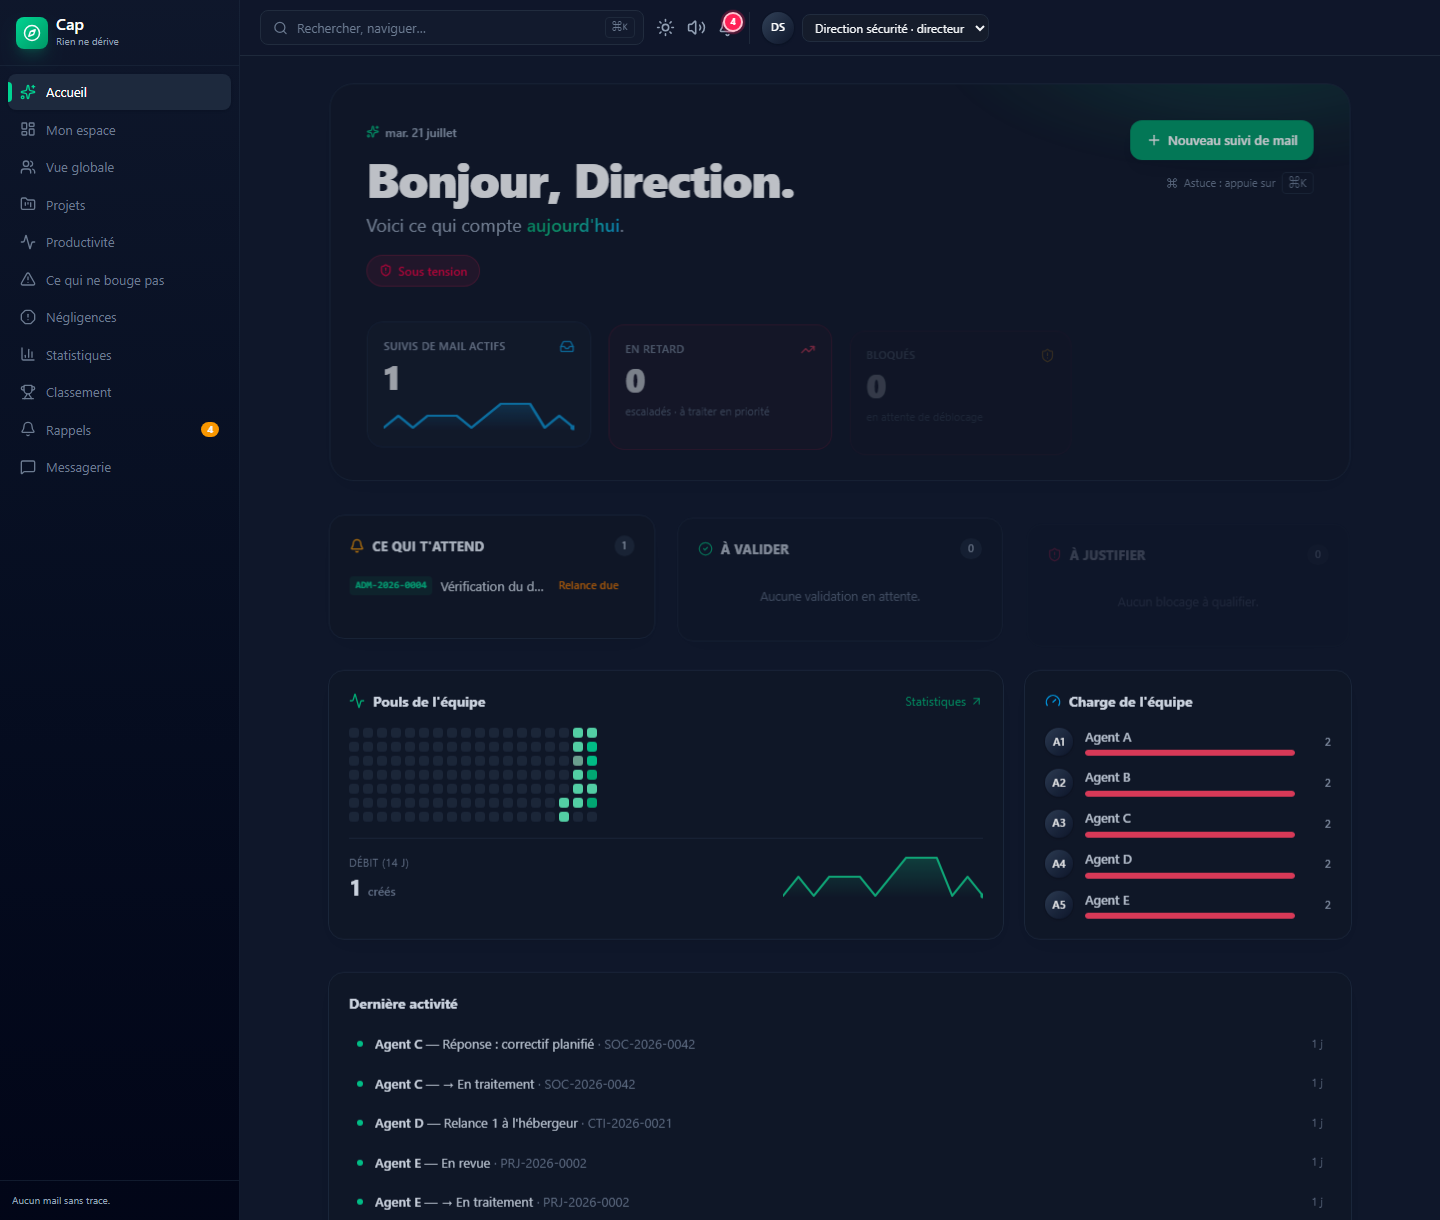
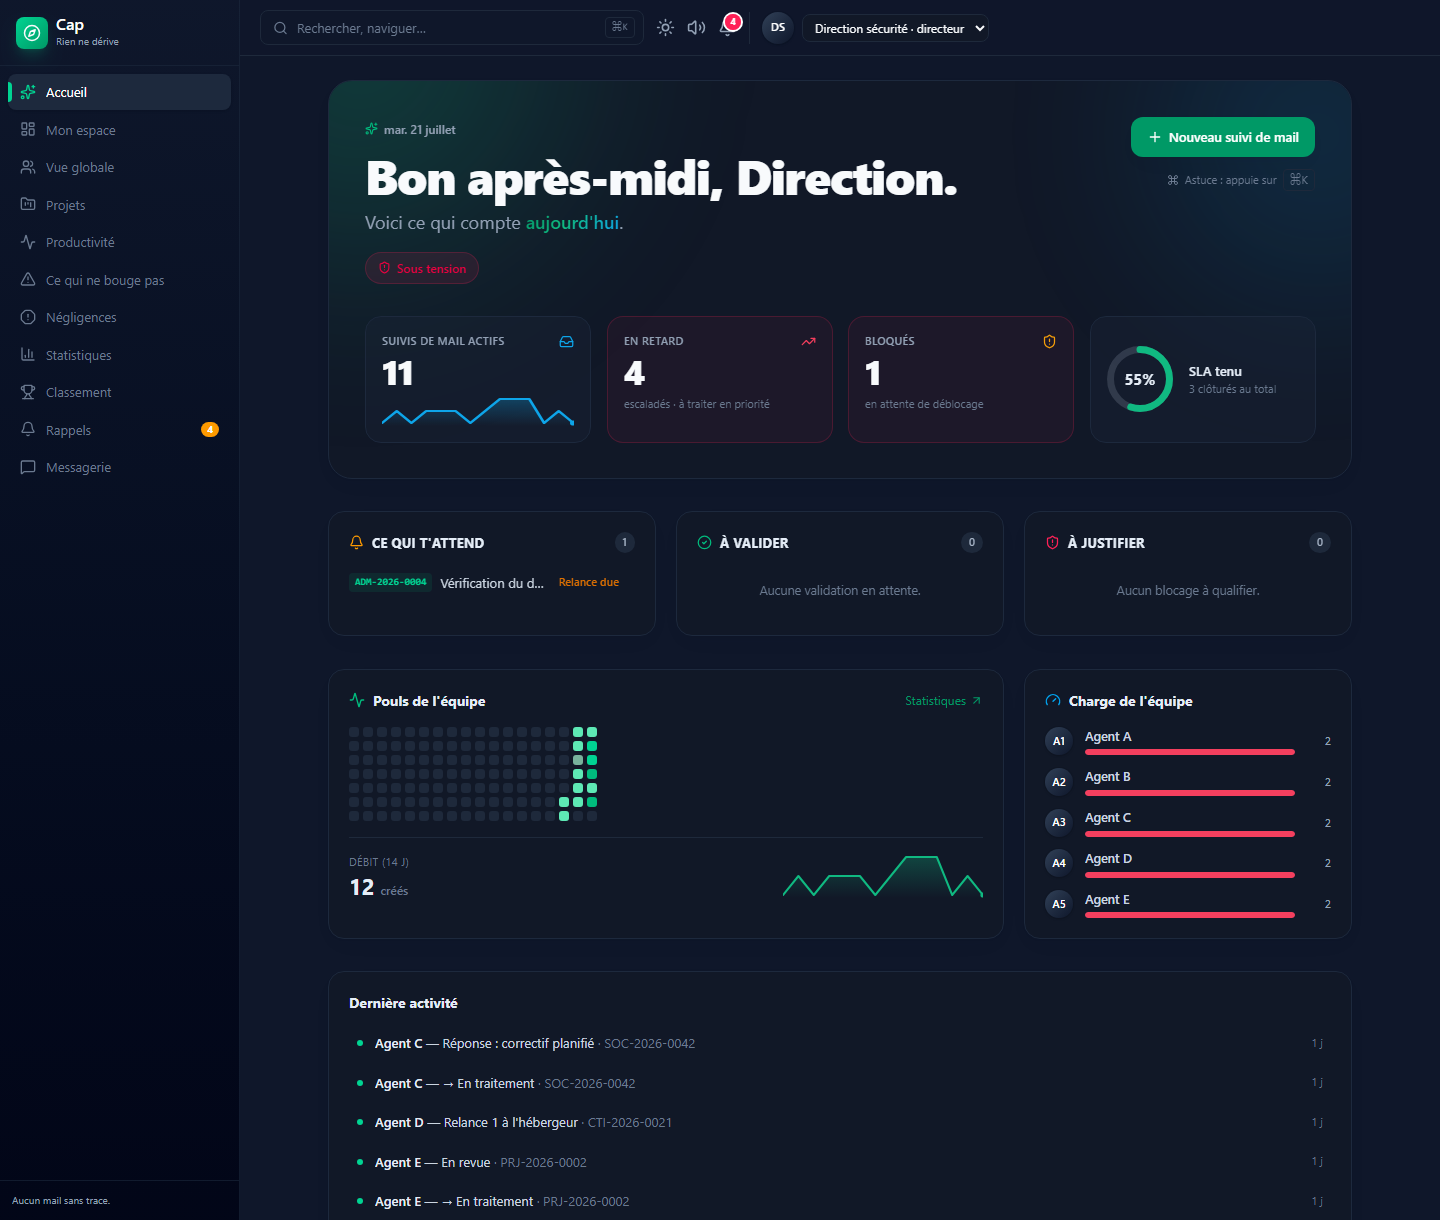
feat(design): Cockpit = accueil par défaut + cran spectaculaire (aurore, salutation)
- Cockpit devient la page d'accueil (connexion, racine, après approbation /
  changement de mot de passe). Le DSI est redirigé vers sa 1re vue autorisée.
- Aurore animée derrière les héros (Cockpit + Mon espace) : dégradés
  emerald/bleu en mouvement lent, plus vivant, respectant prefers-reduced-motion.
- Salutation adaptée à l'heure (Bonjour / Bon après-midi / Bonsoir / Bonne nuit).
- KPIs du Cockpit avec lévitation au survol.

diff --git a/app/(app)/cockpit/page.tsx b/app/(app)/cockpit/page.tsx
@@ -16,7 +16,7 @@ import {
   Sun,
   TrendingUp,
 } from "lucide-react";
-import { fmtLong, isProjectArchived } from "@/lib/domain";
+import { fmtLong, greeting, isProjectArchived } from "@/lib/domain";
 import { useApp } from "@/components/app-context";
 import { Avatar } from "@/components/atoms";
 import { CountUp, Sparkline, Ring, Heatmap } from "@/components/dataviz";
@@ -102,7 +102,8 @@ export default function CockpitPage() {
   return (
     <div className="space-y-8 pb-10">
       {/* ===== Hero / Briefing ===== */}
-      <section className="relative overflow-hidden rounded-3xl border border-slate-200/70 dark:border-slate-800 bg-white dark:bg-slate-900 shadow-soft halo animate-float">
+      <section className="relative overflow-hidden rounded-3xl border border-slate-200/70 dark:border-slate-800 bg-white dark:bg-slate-900 shadow-soft animate-float">
+        <div className="aurora" aria-hidden />
         <div className="relative z-[1] p-7 md:p-9">
           <div className="flex items-start justify-between gap-4 flex-wrap">
             <div>
@@ -110,7 +111,7 @@ export default function CockpitPage() {
                 <Sparkles size={13} className="text-emerald-500" /> {fmtLong(now)}
               </div>
               <h1 className="text-4xl md:text-5xl font-extrabold tracking-tight text-slate-900 leading-[1.05]">
-                Bonjour, {firstName}.
+                {greeting(now)}, {firstName}.
               </h1>
               <p className="mt-2 text-[17px] md:text-lg text-slate-500 max-w-xl">
                 Voici ce qui compte <span className="text-gradient font-semibold">aujourd&apos;hui</span>.
@@ -260,7 +261,7 @@ export default function CockpitPage() {
 /* ---------- Sous-composants ---------- */
 function Kpi({ label, value, icon: Icon, tone, danger, children }: { label: string; value: number; icon: typeof Bell; tone: string; danger?: boolean; children?: React.ReactNode }) {
   return (
-    <div className={`relative rounded-2xl border p-4 ${danger ? "border-rose-200/70 dark:border-rose-500/20 bg-rose-50/40 dark:bg-rose-500/5" : "border-slate-200/70 dark:border-slate-800 bg-slate-50/60 dark:bg-slate-800/30"}`}>
+    <div className={`relative rounded-2xl border p-4 transition-transform duration-200 hover:-translate-y-0.5 ${danger ? "border-rose-200/70 dark:border-rose-500/20 bg-rose-50/40 dark:bg-rose-500/5" : "border-slate-200/70 dark:border-slate-800 bg-slate-50/60 dark:bg-slate-800/30"}`}>
       <div className="flex items-center justify-between">
         <span className="text-[11px] font-medium text-slate-500 uppercase tracking-wide">{label}</span>
         <Icon size={15} style={{ color: tone }} />

diff --git a/app/(app)/espace/page.tsx b/app/(app)/espace/page.tsx
@@ -17,7 +17,7 @@ import {
   ShieldAlert,
   Sparkles,
 } from "lucide-react";
-import { fmt, fmtLong, isTaskOpen, projectMetrics, subtaskProgress, TASK_STATUTS, type TaskStatus } from "@/lib/domain";
+import { fmt, fmtLong, greeting, isTaskOpen, projectMetrics, subtaskProgress, TASK_STATUTS, type TaskStatus } from "@/lib/domain";
 import { useApp } from "@/components/app-context";
 import { Card } from "@/components/atoms";
 import { CountUp, Sparkline } from "@/components/dataviz";
@@ -91,7 +91,8 @@ export default function MonEspacePage() {
   return (
     <div className="space-y-6">
       {/* Hero premium */}
-      <section className="relative overflow-hidden rounded-3xl border border-slate-200/70 dark:border-slate-800 bg-white dark:bg-slate-900 shadow-soft halo animate-float">
+      <section className="relative overflow-hidden rounded-3xl border border-slate-200/70 dark:border-slate-800 bg-white dark:bg-slate-900 shadow-soft animate-float">
+        <div className="aurora" aria-hidden />
         <div className="relative z-[1] p-6 md:p-8">
           <div className="flex items-start justify-between gap-4 flex-wrap">
             <div>
@@ -99,7 +100,7 @@ export default function MonEspacePage() {
                 <Sparkles size={13} className="text-emerald-500" /> {fmtLong(now)}
               </div>
               <h1 className="text-3xl md:text-4xl font-extrabold tracking-tight text-slate-900 leading-tight">
-                Bonjour, {firstName}.
+                {greeting(now)}, {firstName}.
               </h1>
               <p className="mt-1.5 text-[15px] text-slate-500">Ton espace, ton rythme.</p>
             </div>

diff --git a/app/globals.css b/app/globals.css
@@ -173,6 +173,48 @@ button:not(:disabled):active,
   z-index: 0;
 }
 
+/* Aurore décorative animée (derrière les héros) */
+.aurora {
+  position: absolute;
+  inset: 0;
+  overflow: hidden;
+  z-index: 0;
+  pointer-events: none;
+}
+.aurora::before,
+.aurora::after {
+  content: "";
+  position: absolute;
+  border-radius: 50%;
+  filter: blur(70px);
+  opacity: 0.45;
+  will-change: transform;
+}
+.aurora::before {
+  width: 540px;
+  height: 540px;
+  left: -140px;
+  top: -200px;
+  background: radial-gradient(circle at 30% 30%, rgba(16, 185, 129, 0.55), transparent 62%);
+  animation: aur1 18s ease-in-out infinite alternate;
+}
+.aurora::after {
+  width: 480px;
+  height: 480px;
+  right: -160px;
+  top: -140px;
+  background: radial-gradient(circle at 60% 40%, rgba(14, 165, 233, 0.42), transparent 62%);
+  animation: aur2 22s ease-in-out infinite alternate;
+}
+.dark .aurora::before { opacity: 0.5; }
+.dark .aurora::after { opacity: 0.42; }
+@keyframes aur1 {
+  to { transform: translate(90px, 50px) scale(1.18); }
+}
+@keyframes aur2 {
+  to { transform: translate(-80px, 70px) scale(1.12); }
+}
+
 /* Animations supplémentaires */
 @keyframes floatUp {
   from { opacity: 0; transform: translateY(14px) scale(0.98); }

diff --git a/components/LoginForm.tsx b/components/LoginForm.tsx
@@ -29,8 +29,9 @@ export function LoginForm({ firstRun }: { firstRun: boolean }) {
       });
       const data = await res.json();
       if (!res.ok) throw new Error(data.error || "Une erreur est survenue.");
-      // Redirection selon l'état : attente d'approbation, renouvellement imposé, ou espace.
-      router.push(data.pending ? "/pending" : data.mustChangePassword ? "/change-password" : "/espace");
+      // Redirection selon l'état : attente d'approbation, renouvellement imposé, ou accueil.
+      const home = data.user?.role === "dsi" ? "/global" : "/cockpit";
+      router.push(data.pending ? "/pending" : data.mustChangePassword ? "/change-password" : home);
       router.refresh();
     } catch (err) {
       setError(err instanceof Error ? err.message : "Une erreur est survenue.");

diff --git a/lib/domain.ts b/lib/domain.ts
@@ -112,6 +112,15 @@ export const DEFAULT_SECURITY: SecuritySettings = {
   hstsEnabled: false,
 };
 
+/** Salutation adaptée à l'heure. */
+export function greeting(d: Date): string {
+  const h = d.getHours();
+  if (h < 5) return "Bonne nuit";
+  if (h < 12) return "Bonjour";
+  if (h < 18) return "Bon après-midi";
+  return "Bonsoir";
+}
+
 /** Un compte est en lecture seule s'il est marqué comme tel, ou s'il a le rôle DSI. */
 export const isReadOnly = (p: { role: Role; readonly?: boolean }): boolean =>
   p.role === "dsi" || Boolean(p.readonly);

diff --git a/app/login/page.tsx b/app/login/page.tsx
@@ -6,10 +6,10 @@ import { LoginForm } from "@/components/LoginForm";
 
 export default async function LoginPage() {
   // En mode démo, aucune authentification : on entre directement.
-  if (DEMO_MODE) redirect("/espace");
+  if (DEMO_MODE) redirect("/cockpit");
 
   const user = await getCurrentUser();
-  if (user) redirect("/espace");
+  if (user) redirect("/cockpit");
 
   // S'il n'existe encore aucun compte, on propose la création (1er = admin).
   const firstRun = countProfiles() === 0;

diff --git a/app/pending/page.tsx b/app/pending/page.tsx
@@ -6,6 +6,6 @@ import { PendingScreen } from "@/components/PendingScreen";
 export default async function PendingPage() {
   const user = await getAuthUser();
   if (!user) redirect("/login"); // non authentifié
-  if (user.approved) redirect("/espace"); // déjà approuvé : plus d'accès à la page tampon
+  if (user.approved) redirect("/cockpit"); // déjà approuvé : plus d'accès à la page tampon
   return <PendingScreen name={user.nom} />;
 }

diff --git a/components/ChangePasswordScreen.tsx b/components/ChangePasswordScreen.tsx
@@ -25,7 +25,7 @@ export function ChangePasswordScreen({ name }: { name: string }) {
       });
       const d = await r.json();
       if (!r.ok) throw new Error(d.error || "Erreur.");
-      router.replace("/espace");
+      router.replace("/cockpit");
       router.refresh();
     } catch (e2) {
       setErr(e2 instanceof Error ? e2.message : "Erreur.");

diff --git a/app/change-password/page.tsx b/app/change-password/page.tsx
@@ -7,6 +7,6 @@ export default async function ChangePasswordPage() {
   const user = await getAuthUser();
   if (!user) redirect("/login");
   if (!user.approved) redirect("/pending");
-  if (!user.mustChangePassword) redirect("/espace");
+  if (!user.mustChangePassword) redirect("/cockpit");
   return <ChangePasswordScreen name={user.nom} />;
 }

diff --git a/components/PendingScreen.tsx b/components/PendingScreen.tsx
@@ -26,7 +26,7 @@ export function PendingScreen({ name }: { name: string }) {
           setApproved(true);
           if (timer.current) clearInterval(timer.current);
           setTimeout(() => {
-            router.replace("/espace");
+            router.replace("/cockpit");
             router.refresh();
           }, 1400);
         }

diff --git a/app/page.tsx b/app/page.tsx
@@ -1,5 +1,5 @@
 import { redirect } from "next/navigation";
 
 export default function Home() {
-  redirect("/espace");
+  redirect("/cockpit");
 }
